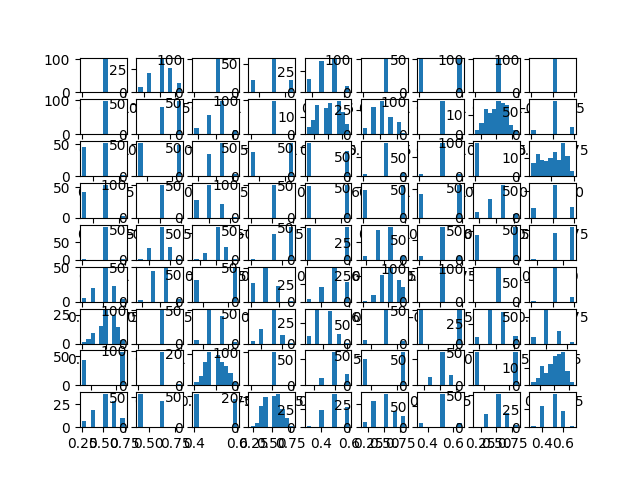
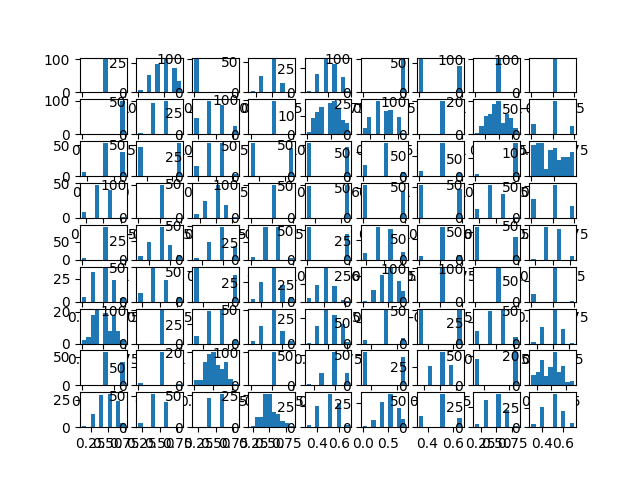
cnn training

diff --git a/detection_gan/cnn_training_loop.py b/detection_gan/cnn_training_loop.py
@@ -2,7 +2,6 @@ import sys
 sys.path.insert(0, r'D:\GitHub\questionnaire_gan\detection_gan')
 import torch
 from data_mixer import data_mixer
-import wandb
 from dataloader import load_data
 import wandb
 from tqdm import tqdm
@@ -25,6 +24,7 @@ def training_loop(generator, discriminator, epochs, batch_size, device, save_dir
             real_batches = data_list[idx]
             total_loss_disc = 0
             total_loss_gen = 0
+            total_disc_acc = 0
             for n_critic in range(critic_range):
                 for idx, (inputs, scales) in enumerate(real_batches):
                     # zero the parameter gradients
@@ -49,7 +49,17 @@ def training_loop(generator, discriminator, epochs, batch_size, device, save_dir
 
                     discriminator_output = discriminator(mixed_data)
                     labels = labels.to(torch.float32)
+                    where_not_padding = torch.where(mixed_data.sum(dim=2).view(-1) > 0)[0]
+                    discriminator_output = discriminator_output.view(-1)
+                    discriminator_output = discriminator_output[where_not_padding]
+                    labels = labels.view(-1)
+                    labels = labels[where_not_padding]
+
                     discriminator_loss = criterion(discriminator_output, labels)
+
+
+                    acc = torch.sum(torch.round(discriminator_output) == labels) / len(labels)
+                    total_disc_acc += acc.item()
                     total_loss_disc += discriminator_loss.item()
                     discriminator_loss.backward()
                     optimizer_discriminator.step()
@@ -78,12 +88,16 @@ def training_loop(generator, discriminator, epochs, batch_size, device, save_dir
                     mixed_data, labels = data_mixer(inputs, fake_data, device)
                     mixed_data = mixed_data.to(torch.float32)
                     # reverse labels
-
-                    labels = torch.ones(labels.shape[0], labels.shape[1]).to(device)
-                    labels = labels.to(torch.float32)
-
+                    labels = labels.view(-1)
+                    label_zeros = torch.where(labels == 0)[0]
                     discriminator_output = discriminator(mixed_data)
-                    generator_loss = criterion(discriminator_output, labels)
+                    discriminator_output = discriminator_output.view(-1)
+                    fake_discriminator = discriminator_output[label_zeros]
+                    where_not_padding = torch.where(fake_discriminator > 0)[0]
+                    fake_discriminator = fake_discriminator[where_not_padding]
+                    labels = torch.ones(fake_discriminator.shape[0]).to(device)
+
+                    generator_loss = criterion(fake_discriminator, labels)
                     total_loss_gen += generator_loss.item()
 
                     generator_loss.backward()
@@ -93,8 +107,9 @@ def training_loop(generator, discriminator, epochs, batch_size, device, save_dir
                         scheduler_gen.step()
 
             if epoch % 1 == 0:
-                wandb.log({"Generator Loss": total_loss_gen / len(real_batches),
+                wandb.log({"Generator Loss": total_loss_gen / (len(real_batches) * mimic_range),
                            "Discriminator Loss": total_loss_disc / (len(real_batches) * critic_range),
+                            "Discriminator Accuracy": total_disc_acc / (len(real_batches) * critic_range),
                            "Discriminator Learning Rate": optimizer_discriminator.param_groups[0]['lr'],
                           "Generator Learning Rate": optimizer_generator.param_groups[0]['lr'],
                            "Epoch": epoch})

diff --git a/detection_gan/train_cnn.py b/detection_gan/train_cnn.py
@@ -12,7 +12,7 @@ device = torch.device('cuda:0' if torch.cuda.is_available() else 'cpu')
 
 
 generator = CNN_Generator()
-layer_sizes = [100, 4000]
+layer_sizes = [100, 8000, 4000]
 # layer_sizes = [100, 2000, 4000]
 
 generator = Generator(layer_sizes, 40)
@@ -21,6 +21,8 @@ generator = Generator(layer_sizes, 40)
 # with mean 0 and standard deviation 0.02
 generator.linear_0.weight.data.normal_(0, 0.02)
 generator.linear_0.bias.data.fill_(0)
+generator.linear_1.weight.data.normal_(0, 0.02)
+generator.linear_1.bias.data.fill_(0)
 
 
 discriminator = CNN_Discriminator()
@@ -29,7 +31,7 @@ generator = generator.to(device)
 discriminator = discriminator.to(device)
 
 optimizer_generator = torch.optim.AdamW(generator.parameters(),
-                    lr=5e-4,
+                    lr=5e-5,
                     eps=1e-8,  # Epsilon
                     weight_decay=0.3,
                     amsgrad=True,
@@ -46,9 +48,9 @@ optimizer_discriminator = torch.optim.AdamW(discriminator.parameters(),
 
 criterion = torch.nn.BCELoss()
 critic_range = 1
-mimic_range = 4
+mimic_range = 1
 save_dir = r'D:\GitHub\questionnaire_gan\detection_gan\models\test_cnn_2'
-epochs = 100000
+epochs = 160
 batch_size = 1000
 
 # load
@@ -57,11 +59,11 @@ batch_size = 1000
 
 scheduler_generator = get_linear_schedule_with_warmup(optimizer_generator,
                                             num_warmup_steps=500,
-                                            num_training_steps= 4000 * epochs)
+                                            num_training_steps= 4 * 10 * epochs)
 
 scheduler_discriminator = get_linear_schedule_with_warmup(optimizer_discriminator,
                                             num_warmup_steps=500,
-                                            num_training_steps= 4000 * epochs)
+                                            num_training_steps= 4 * 10 * epochs)
 
 
 

diff --git a/detection_gan/train_gan.py b/detection_gan/train_gan.py
@@ -46,7 +46,7 @@ optimizer_discriminator = torch.optim.AdamW(discriminator.parameters(),
 
 critic_range = 5
 save_dir = r'D:\GitHub\questionnaire_gan\detection_gan\models\test_9'
-epochs = 100000
+epochs = 1000
 batch_size = 1000
 
 # load
